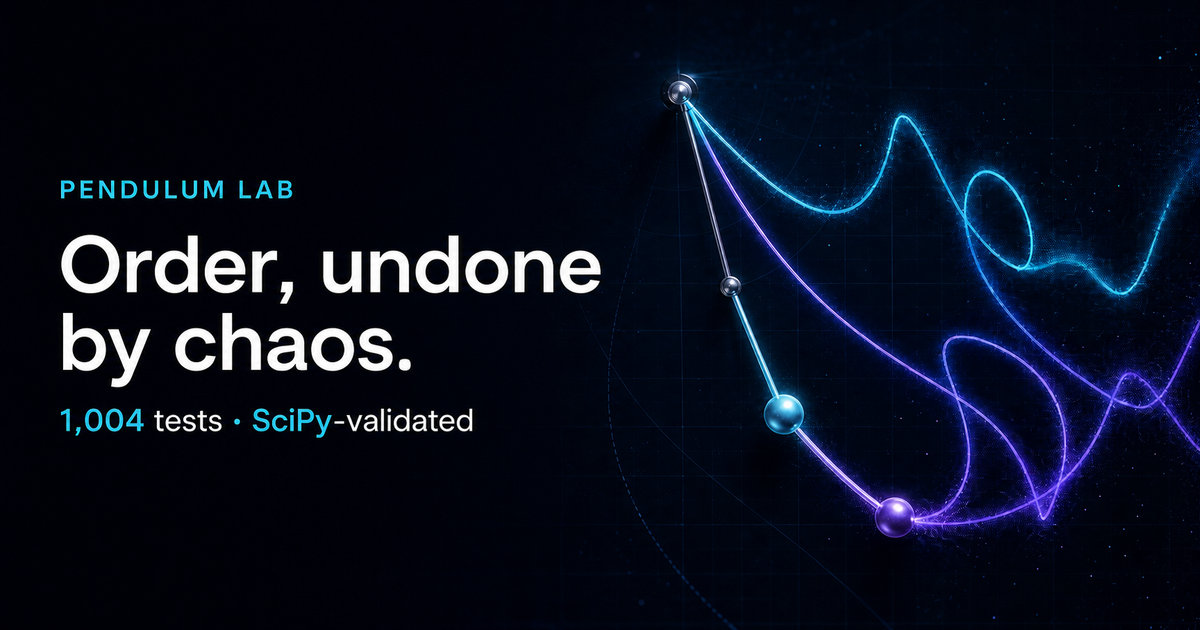
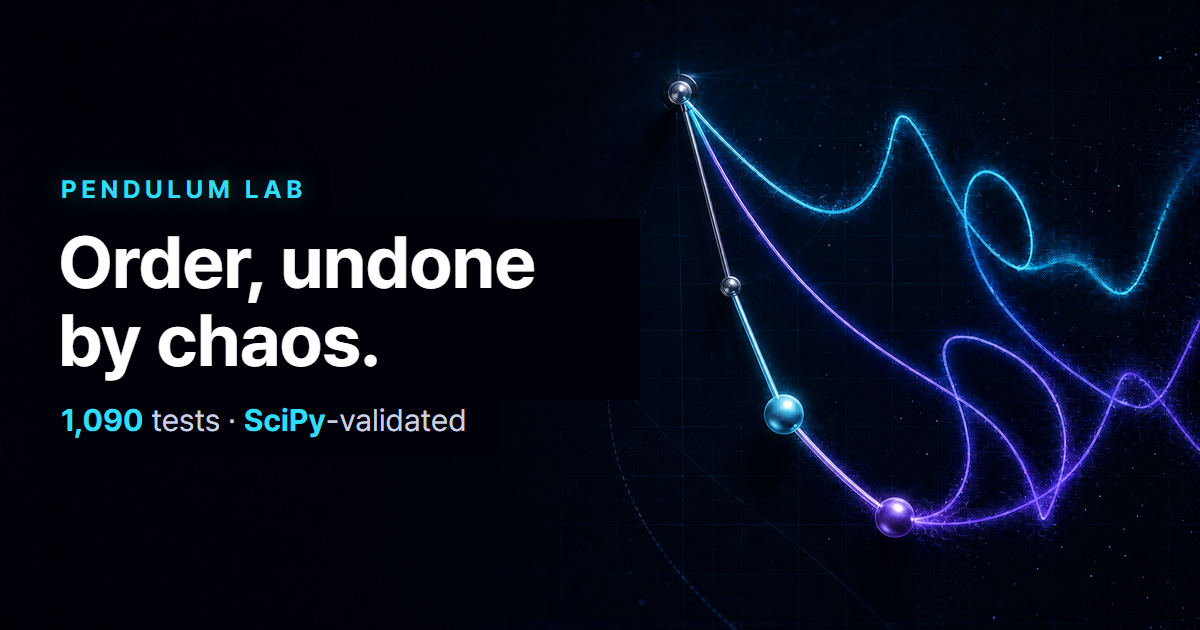
feat: evidence-synced copy counts and generated OG card
The page copy and the social card quoted a hardcoded test count (1,004)
while the evidence summary had moved to 1,090. Every static occurrence is
now generated from assets/evidence-summary.json and gated fail-closed:

- scripts/sync-copy-counts.mjs (npm run sync:copy) rewrites the meta
  descriptions, OG/Twitter image alt text, no-JS fallback spans (kept
  byte-identical to what the runtime hydrator renders), and the Korean
  dictionary entry.
- scripts/generate-og-card.mjs (npm run assets:og-card) composites the
  text-free base art (assets/og-card-base.png, made once by wiping the
  text region of the original card) with the live count using the
  committed Pretendard subsets; assets/og-card-meta.json records the
  numbers baked into the pixels and skips the rewrite when fresh.
- scripts/check-static-assets.mjs fails when any static count or the
  og-card sidecar drifts from the evidence summary (verified in both
  directions), and cross-repo-release.yml runs the syncs before the gate
  so a release can never ship stale numbers.
- assets/main.js: comma-aware meta-description patch (the old digit-only
  regex turned '1,004' into '1,1090'), and the ledger line now matches
  the lab verify pipeline including the new format gate.
- Evidence, kernel manifest, and changelog highlights resynced to the
  lab's current HEAD; ko.html regenerated.

Verified: npm run check (including the new gates), full Playwright suite
22/22 on chromium + mobile-chrome.

Changed region(s): [[0.0308, 0.3619, 0.5242, 0.6937], [0.0308, 0.2714, 0.2467, 0.3317]]

diff --git a/ko.html b/ko.html
@@ -3,9 +3,9 @@
 <meta charset="UTF-8">
 <meta name="viewport" content="width=device-width, initial-scale=1.0">
 <title>Pendulum Lab — 이중진자 카오스 엔진</title>
-<meta name="description" content="비선형 진자 동역학을 위한 프레임워크 없는 TypeScript 엔진과 브라우저 실험실 — 13종의 주력 적분기, 전체 랴푸노프 진단, CPU 오러클로 게이트되는 WebGPU 파이프라인, 해시 검증 연구 번들. 1,004개 단위 테스트, SciPy와 출판 문헌으로 검증.">
+<meta name="description" content="비선형 진자 동역학을 위한 프레임워크 없는 TypeScript 엔진과 브라우저 실험실 — 13종의 주력 적분기, 전체 랴푸노프 진단, CPU 오러클로 게이트되는 WebGPU 파이프라인, 해시 검증 연구 번들. 1,090개 단위 테스트, SciPy와 출판 문헌으로 검증.">
 <meta property="og:title" content="Pendulum Lab — 이중진자 카오스 엔진">
-<meta property="og:description" content="비선형 진자 동역학을 위한 프레임워크 없는 TypeScript 엔진과 브라우저 실험실 — 13종의 주력 적분기, 전체 랴푸노프 진단, CPU 오러클로 게이트되는 WebGPU 파이프라인, 해시 검증 연구 번들. 1,004개 단위 테스트, SciPy와 출판 문헌으로 검증.">
+<meta property="og:description" content="비선형 진자 동역학을 위한 프레임워크 없는 TypeScript 엔진과 브라우저 실험실 — 13종의 주력 적분기, 전체 랴푸노프 진단, CPU 오러클로 게이트되는 WebGPU 파이프라인, 해시 검증 연구 번들. 1,090개 단위 테스트, SciPy와 출판 문헌으로 검증.">
 <meta property="og:type" content="website">
 <meta property="og:url" content="https://elliotjung.github.io/pendulum-landing/ko.html">
 <meta property="og:locale" content="ko_KR">
@@ -14,12 +14,12 @@
 <meta property="og:image:type" content="image/png">
 <meta property="og:image:width" content="1200">
 <meta property="og:image:height" content="630">
-<meta property="og:image:alt" content="Pendulum Lab — Order, undone by chaos. 1,004 tests and SciPy-validated.">
+<meta property="og:image:alt" content="Pendulum Lab — Order, undone by chaos. 1,090 tests and SciPy-validated.">
 <meta name="twitter:card" content="summary_large_image">
 <meta name="twitter:title" content="Pendulum Lab — 이중진자 카오스 엔진">
-<meta name="twitter:description" content="비선형 진자 동역학을 위한 프레임워크 없는 TypeScript 엔진과 브라우저 실험실 — 13종의 주력 적분기, 전체 랴푸노프 진단, CPU 오러클로 게이트되는 WebGPU 파이프라인, 해시 검증 연구 번들. 1,004개 단위 테스트, SciPy와 출판 문헌으로 검증.">
+<meta name="twitter:description" content="비선형 진자 동역학을 위한 프레임워크 없는 TypeScript 엔진과 브라우저 실험실 — 13종의 주력 적분기, 전체 랴푸노프 진단, CPU 오러클로 게이트되는 WebGPU 파이프라인, 해시 검증 연구 번들. 1,090개 단위 테스트, SciPy와 출판 문헌으로 검증.">
 <meta name="twitter:image" content="https://elliotjung.github.io/pendulum-landing/assets/og-card.png">
-<meta name="twitter:image:alt" content="Pendulum Lab — Order, undone by chaos. 1,004 tests and SciPy-validated.">
+<meta name="twitter:image:alt" content="Pendulum Lab — Order, undone by chaos. 1,090 tests and SciPy-validated.">
 <link rel="canonical" href="https://elliotjung.github.io/pendulum-landing/ko.html">
 <link rel="alternate" hreflang="en" href="https://elliotjung.github.io/pendulum-landing/">
 <link rel="alternate" hreflang="ko" href="https://elliotjung.github.io/pendulum-landing/ko.html">
@@ -141,10 +141,10 @@
         <div class="spec-card" data-tilt="">
           <div class="spec-head">
             <span class="label">신뢰성</span>
-            <span class="live-dot"><i></i> <span data-evidence="tests.passLabel">1003 / 1003 pass</span></span>
+            <span class="live-dot"><i></i> <span data-evidence="tests.passLabel">1090 / 1090 pass</span></span>
           </div>
           <div class="spec-row"><span class="k">vs SciPy DOP853</span><span class="v cy" data-evidence="validation.scipyAgreement">~6e-14</span></div>
-          <div class="spec-row"><span class="k">단위 테스트</span><span class="v" data-evidence="tests.greenLabel">1003 green</span></div>
+          <div class="spec-row"><span class="k">단위 테스트</span><span class="v" data-evidence="tests.greenLabel">1090 green</span></div>
           <div class="spec-row"><span class="k">주기배가 A</span><span class="v" data-evidence="validation.periodDoubling">1.0664</span></div>
           <div class="spec-row"><span class="k">뮤테이션 테스트</span><span class="v vi" data-evidence="mutation.scoreLabel">65.32% · low band · 29 shards</span></div>
         </div>
@@ -517,7 +517,7 @@
 
       <div class="val-side">
         <div class="val-stat reveal">
-          <div class="big" data-count="1003" data-decimals="0" data-evidence-count="tests.passed"></div>
+          <div class="big" data-count="1090" data-decimals="0" data-evidence-count="tests.passed"></div>
           <div class="cap">단위 테스트 · 전부 그린</div>
           <p>여기에 Chromium·Firefox·WebKit·모바일 E2E 스위트, 그리고 기계가 읽을 수 있는 Stryker 집계 <span data-evidence="mutation.scoreLabel">65.32% · low band · 29 shards</span>.</p>
         </div>
@@ -541,7 +541,7 @@
         <span class="pass"><i></i> CI에서 강제</span>
       </div>
       <div class="ledger-rows">
-        <div class="ledger-row"><span class="k">verify</span><span class="v" data-evidence="ledger.verify">CSP-safe lint → strict typecheck → module-size ratchet → 1003 unit tests → result-count guard → docs sync</span></div>
+        <div class="ledger-row"><span class="k">verify</span><span class="v" data-evidence="ledger.verify">CSP-safe lint → strict typecheck → module-size ratchet → 1090 unit tests → result-count guard → docs sync → format gate</span></div>
         <div class="ledger-row"><span class="k">browsers</span><span class="v">Chromium·모바일 Chrome·Firefox·WebKit에서 Playwright E2E, 호스트별 시각 회귀 기준선 포함</span></div>
         <div class="ledger-row"><span class="k">memory</span><span class="v">커밋된 브라우저 벤치마크 기준선 대비 하드 메모리 회귀 게이트</span></div>
         <div class="ledger-row"><span class="k">evidence</span><span class="v">리포트가 소스 커밋을 증명하고, 리뷰어 콘솔이 기계가 읽는 인증 체인을 읽습니다</span></div>

diff --git a/index.html b/index.html
@@ -4,7 +4,7 @@
 <meta charset="UTF-8" />
 <meta name="viewport" content="width=device-width, initial-scale=1.0" />
 <title>Pendulum Lab — The Double-Pendulum Chaos Engine</title>
-<meta name="description" content="A framework-free TypeScript engine and browser laboratory for nonlinear pendulum dynamics — thirteen primary integrators, full Lyapunov diagnostics, CPU-oracle-gated WebGPU pipelines, and hash-verifiable research bundles. 1,004 unit tests, validated against SciPy and published literature." />
+<meta name="description" content="A framework-free TypeScript engine and browser laboratory for nonlinear pendulum dynamics — thirteen primary integrators, full Lyapunov diagnostics, CPU-oracle-gated WebGPU pipelines, and hash-verifiable research bundles. 1,090 unit tests, validated against SciPy and published literature." />
 <meta property="og:title" content="Pendulum Lab — The Double-Pendulum Chaos Engine" />
 <meta property="og:description" content="Order, undone by chaos. A validated chaotic-pendulum research laboratory that runs entirely in your browser." />
 <meta property="og:type" content="website" />
@@ -15,12 +15,12 @@
 <meta property="og:image:type" content="image/png" />
 <meta property="og:image:width" content="1200" />
 <meta property="og:image:height" content="630" />
-<meta property="og:image:alt" content="Pendulum Lab — Order, undone by chaos. 1,004 tests and SciPy-validated." />
+<meta property="og:image:alt" content="Pendulum Lab — Order, undone by chaos. 1,090 tests and SciPy-validated." />
 <meta name="twitter:card" content="summary_large_image" />
 <meta name="twitter:title" content="Pendulum Lab - The Double-Pendulum Chaos Engine" />
 <meta name="twitter:description" content="A browser-native nonlinear dynamics lab with synchronized test, reviewer, publication, and GPU evidence." />
 <meta name="twitter:image" content="https://elliotjung.github.io/pendulum-landing/assets/og-card.png" />
-<meta name="twitter:image:alt" content="Pendulum Lab — Order, undone by chaos. 1,004 tests and SciPy-validated." />
+<meta name="twitter:image:alt" content="Pendulum Lab — Order, undone by chaos. 1,090 tests and SciPy-validated." />
 <link rel="canonical" href="https://elliotjung.github.io/pendulum-landing/" />
 <link rel="alternate" hreflang="en" href="https://elliotjung.github.io/pendulum-landing/" />
 <link rel="alternate" hreflang="ko" href="https://elliotjung.github.io/pendulum-landing/ko.html" />
@@ -147,10 +147,10 @@
         <div class="spec-card" data-tilt>
           <div class="spec-head">
             <span class="label">Credibility</span>
-            <span class="live-dot"><i></i> <span data-evidence="tests.passLabel">1003 / 1003 pass</span></span>
+            <span class="live-dot"><i></i> <span data-evidence="tests.passLabel">1090 / 1090 pass</span></span>
           </div>
           <div class="spec-row"><span class="k">vs SciPy DOP853</span><span class="v cy" data-evidence="validation.scipyAgreement">~6e-14</span></div>
-          <div class="spec-row"><span class="k">unit tests</span><span class="v" data-evidence="tests.greenLabel">1003 green</span></div>
+          <div class="spec-row"><span class="k">unit tests</span><span class="v" data-evidence="tests.greenLabel">1090 green</span></div>
           <div class="spec-row"><span class="k">period-doubling A</span><span class="v" data-evidence="validation.periodDoubling">1.0664</span></div>
           <div class="spec-row"><span class="k">mutation tested</span><span class="v vi" data-evidence="mutation.scoreLabel">65.32% · low band · 29 shards</span></div>
         </div>
@@ -532,7 +532,7 @@
 
       <div class="val-side">
         <div class="val-stat reveal">
-          <div class="big" data-count="1003" data-decimals="0" data-evidence-count="tests.passed"></div>
+          <div class="big" data-count="1090" data-decimals="0" data-evidence-count="tests.passed"></div>
           <div class="cap">Unit tests · all green</div>
           <p>Plus Chromium, Firefox, WebKit and mobile end-to-end suites, with a machine-readable Stryker aggregate of <span data-evidence="mutation.scoreLabel">65.32% · low band · 29 shards</span>.</p>
         </div>
@@ -556,7 +556,7 @@
         <span class="pass"><i></i> enforced in CI</span>
       </div>
       <div class="ledger-rows">
-        <div class="ledger-row"><span class="k">verify</span><span class="v" data-evidence="ledger.verify">CSP-safe lint → strict typecheck → module-size ratchet → 1003 unit tests → result-count guard → docs sync</span></div>
+        <div class="ledger-row"><span class="k">verify</span><span class="v" data-evidence="ledger.verify">CSP-safe lint → strict typecheck → module-size ratchet → 1090 unit tests → result-count guard → docs sync → format gate</span></div>
         <div class="ledger-row"><span class="k">browsers</span><span class="v">Playwright e2e on Chromium, mobile-Chrome, Firefox and WebKit, with visual-regression baselines per host</span></div>
         <div class="ledger-row"><span class="k">memory</span><span class="v">Hard memory-regression gate against a committed browser-benchmark baseline</span></div>
         <div class="ledger-row"><span class="k">evidence</span><span class="v">Reports attest their source commit; a reviewer console reads the machine-readable certification chain</span></div>

diff --git a/assets/main.js b/assets/main.js
@@ -66,14 +66,15 @@
     if (typeof energy.profiledMethods === 'number') {
       setText('energy.profileLabel', `${energy.profiledMethods} methods profiled`);
     }
-    setText('ledger.verify', `CSP-safe lint → strict typecheck → module-size ratchet → ${tests.total} unit tests → result-count guard → evidence summary → docs sync`);
+    setText('ledger.verify', `CSP-safe lint → strict typecheck → module-size ratchet → ${tests.total} unit tests → result-count guard → docs sync → format gate`);
     setCount('tests.passed', tests.passed);
     setCount('validation.periodDoublingComputed', pd.computed);
 
     const meta = document.querySelector('meta[name="description"]');
     if (meta && typeof tests.total === 'number') {
       const content = meta.getAttribute('content') || '';
-      meta.setAttribute('content', content.replace(/\d+ unit tests/, `${tests.total} unit tests`));
+      // Comma-aware: the static description writes "1,090 unit tests".
+      meta.setAttribute('content', content.replace(/[\d,]+ unit tests/, `${tests.total.toLocaleString('en-US')} unit tests`));
     }
   }
 

diff --git a/assets/i18n-core.js b/assets/i18n-core.js
@@ -285,7 +285,7 @@
 
   const TITLE_KO = 'Pendulum Lab — 이중진자 카오스 엔진';
   const META_DESCRIPTION_KO =
-    '비선형 진자 동역학을 위한 프레임워크 없는 TypeScript 엔진과 브라우저 실험실 — 13종의 주력 적분기, 전체 랴푸노프 진단, CPU 오러클로 게이트되는 WebGPU 파이프라인, 해시 검증 연구 번들. 1,004개 단위 테스트, SciPy와 출판 문헌으로 검증.';
+    '비선형 진자 동역학을 위한 프레임워크 없는 TypeScript 엔진과 브라우저 실험실 — 13종의 주력 적분기, 전체 랴푸노프 진단, CPU 오러클로 게이트되는 WebGPU 파이프라인, 해시 검증 연구 번들. 1,090개 단위 테스트, SciPy와 출판 문헌으로 검증.';
 
   function normalize(text) {
     return text.replace(/\s+/g, ' ').trim();

diff --git a/README.md b/README.md
@@ -34,6 +34,10 @@ browser laboratory for nonlinear pendulum dynamics.
   `npm run sync:changelog`.
 - `assets/og-card.png`, `assets/favicon-32.png`, and
   `assets/apple-touch-icon.png` - dimension-checked social and bookmark assets.
+  The og-card is generated: `npm run assets:og-card` composites the text-free
+  base art (`assets/og-card-base.png`) with the live test count from the
+  evidence summary, and `assets/og-card-meta.json` records the numbers baked
+  into the pixels so the static gate fails when the card goes stale.
 - `assets/fonts/` - page-specific Pretendard Regular/Bold WOFF2 subsets plus
   the OFL. After Korean copy changes, install `fonttools brotli` once and run
   `npm run build:ko && npm run assets:fonts`; each font is capped at 60 KB.
@@ -51,6 +55,10 @@ browser laboratory for nonlinear pendulum dynamics.
   drift).
 - `scripts/sync-kernel-manifest.mjs` - realigns the demo-kernel manifest with
   freshly synced evidence (used by the evidence-sync workflow).
+- `scripts/sync-copy-counts.mjs` (`npm run sync:copy`) - rewrites every static
+  test-count occurrence (meta descriptions, OG/Twitter alt text, no-JS
+  fallback spans, the Korean dictionary) from the evidence summary; the
+  cross-repo release workflow runs it before the static gate.
 - `.github/workflows/landing-ci.yml` - smoke, static check, ko.html freshness,
   and Lighthouse audit.
 - `.github/workflows/node-compatibility.yml` - browser-free quick check on every
@@ -110,6 +118,10 @@ build -> evidence sync -> landing check/smoke -> tag/release.
   and commits. The manual path (`npm run evidence:summary` in the main repo,
   then `node scripts/sync-kernel-manifest.mjs` here) remains as local
   convenience; CI can compare the two by setting `PENDULUM_LAB_EVIDENCE_PATH`.
+- After fresh evidence changes the test count, run `npm run sync:copy`,
+  `npm run assets:og-card`, and `npm run build:ko` (the static gate lists the
+  exact command when something is stale; the cross-repo release workflow runs
+  all three automatically).
 - When adding new sections, keep the first viewport anchored on the product and
   leave a visible hint of the next section below the hero.
 - CTA links should remain direct actions such as Open Lab, Try Performance Mode,